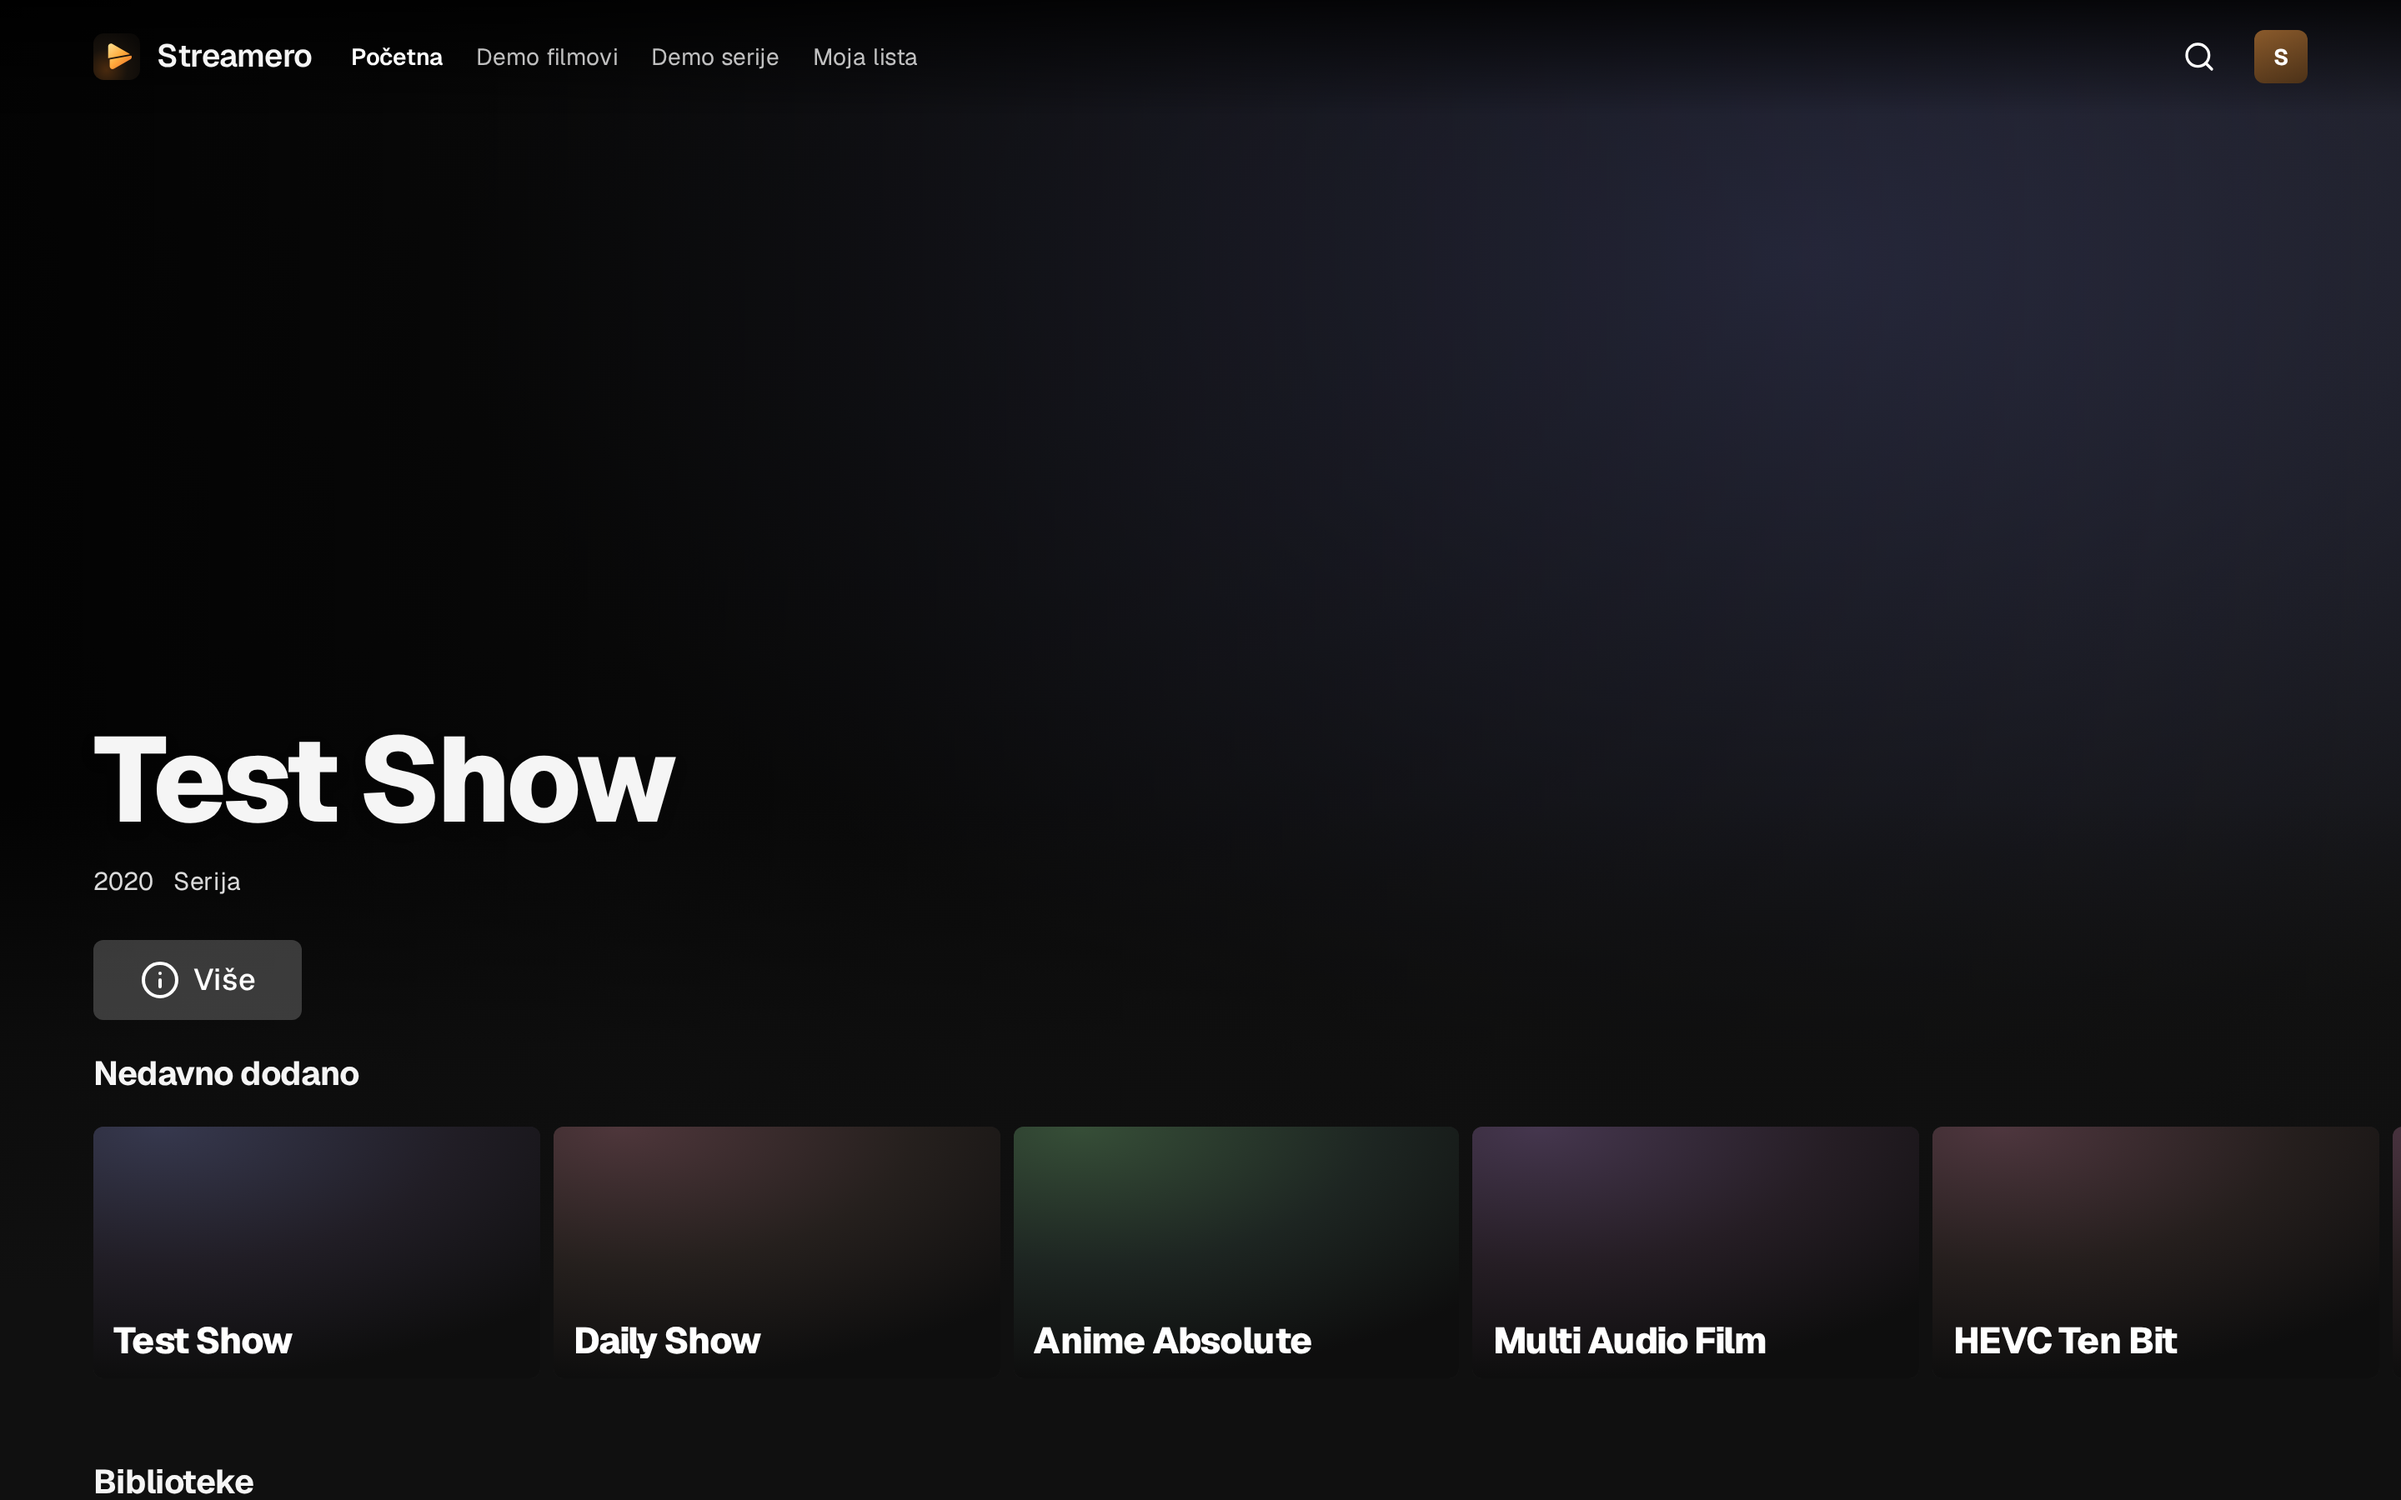
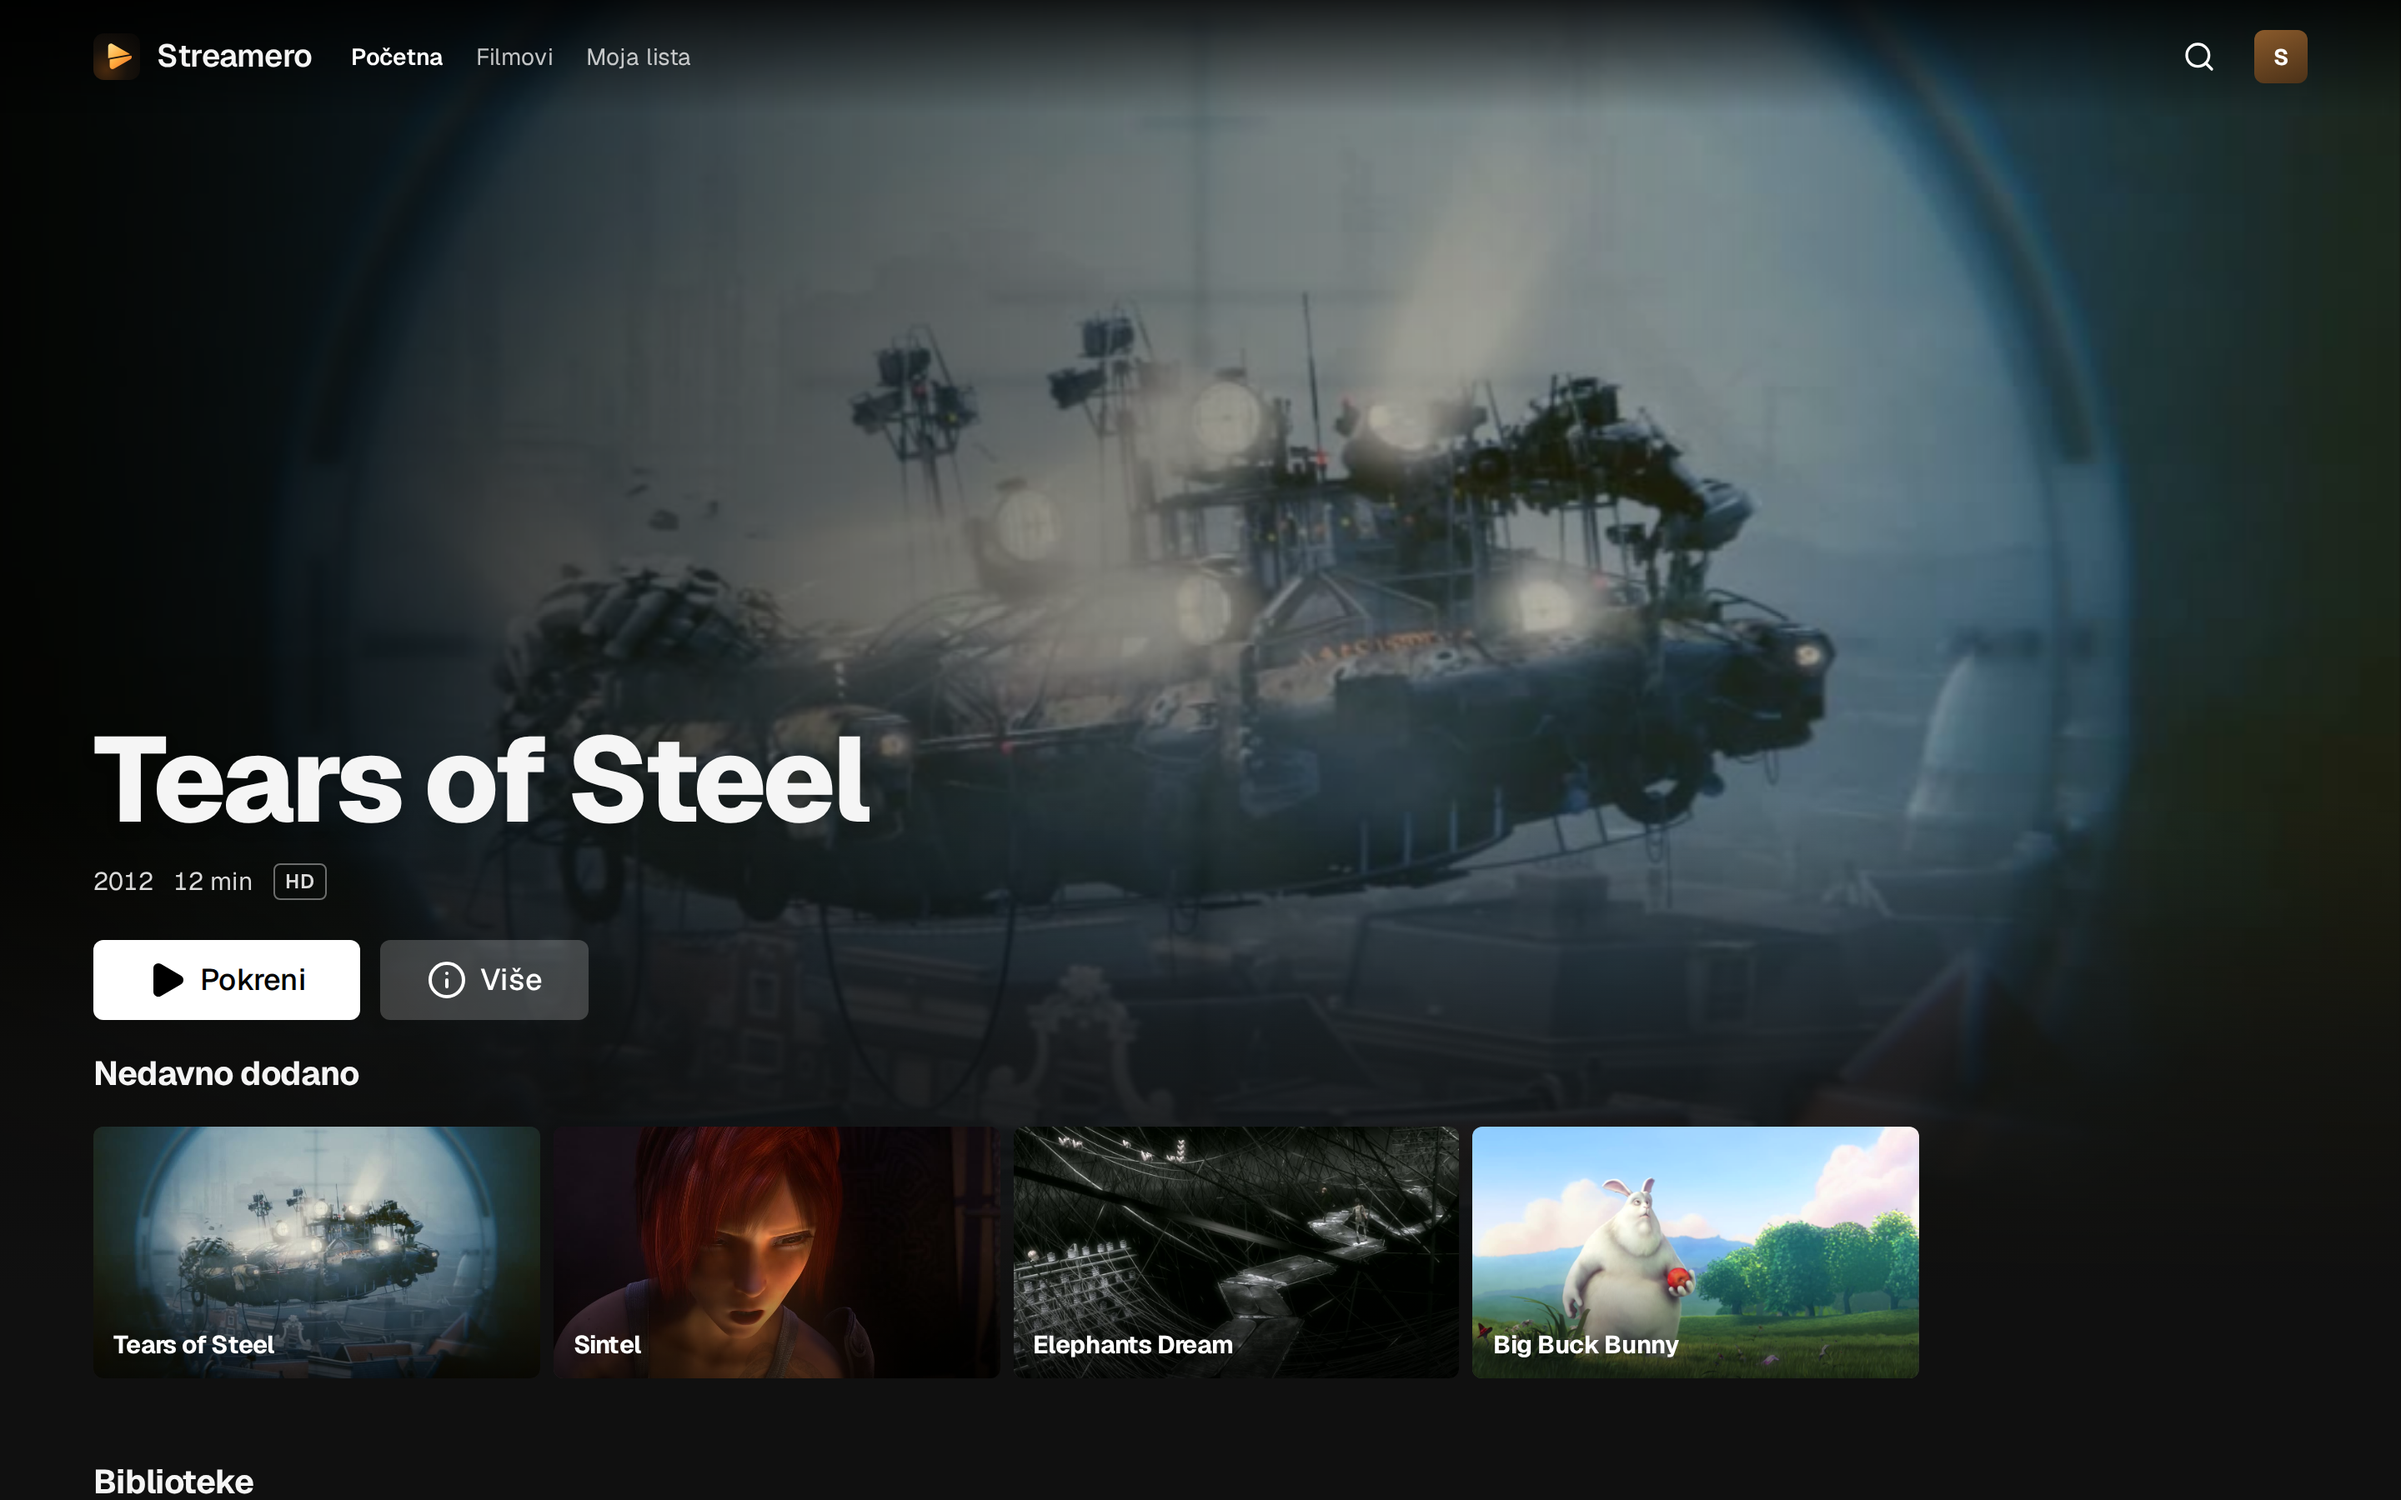
docs: screenshots with real (CC BY) demo films

diff --git a/docs/SCREENSHOTS.md b/docs/SCREENSHOTS.md
@@ -1,6 +1,8 @@
 # Screenshots
 
-The demo has no TMDb key, so the art below is the typographic stand-in. Real posters and backdrops appear once a key is set.
+Demo content: Blender Foundation open movies (Sintel, Tears of Steel, Elephants Dream, Big Buck Bunny; © Blender Foundation, CC BY). The demo has no TMDb key, so the artwork is Streamero's own frame grabs; with a key, posters, title logos and cast photos replace them.
+
+![Billboard with muted preview](screenshots/desktop-0-pregled.png)
 
 **Desktop**
 
